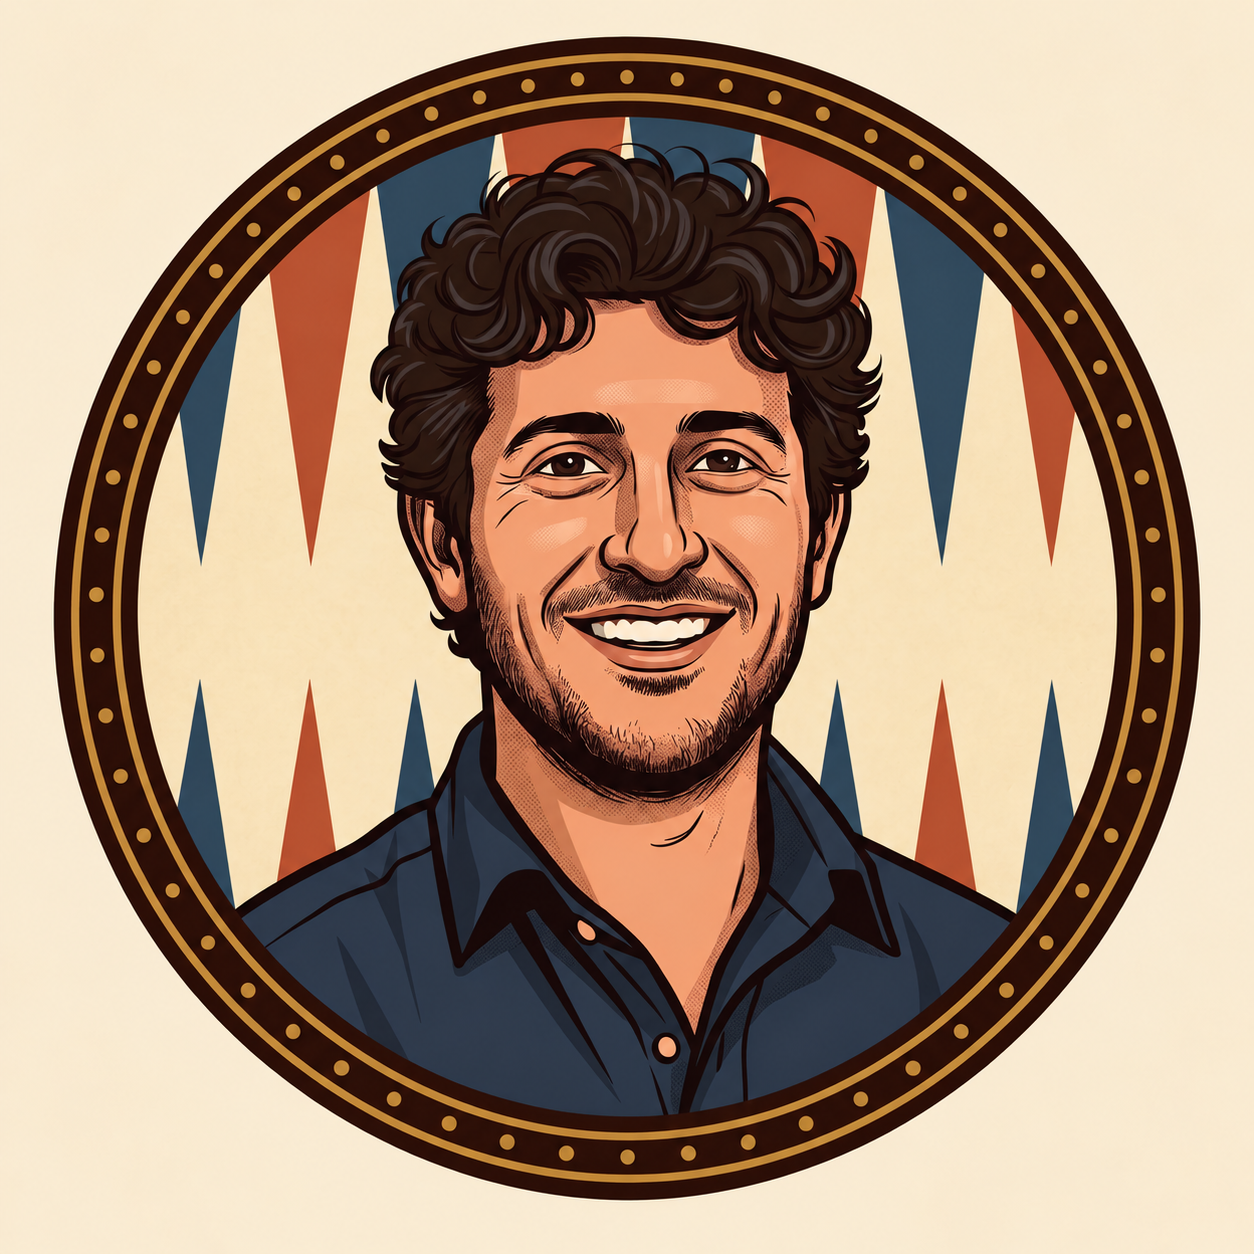
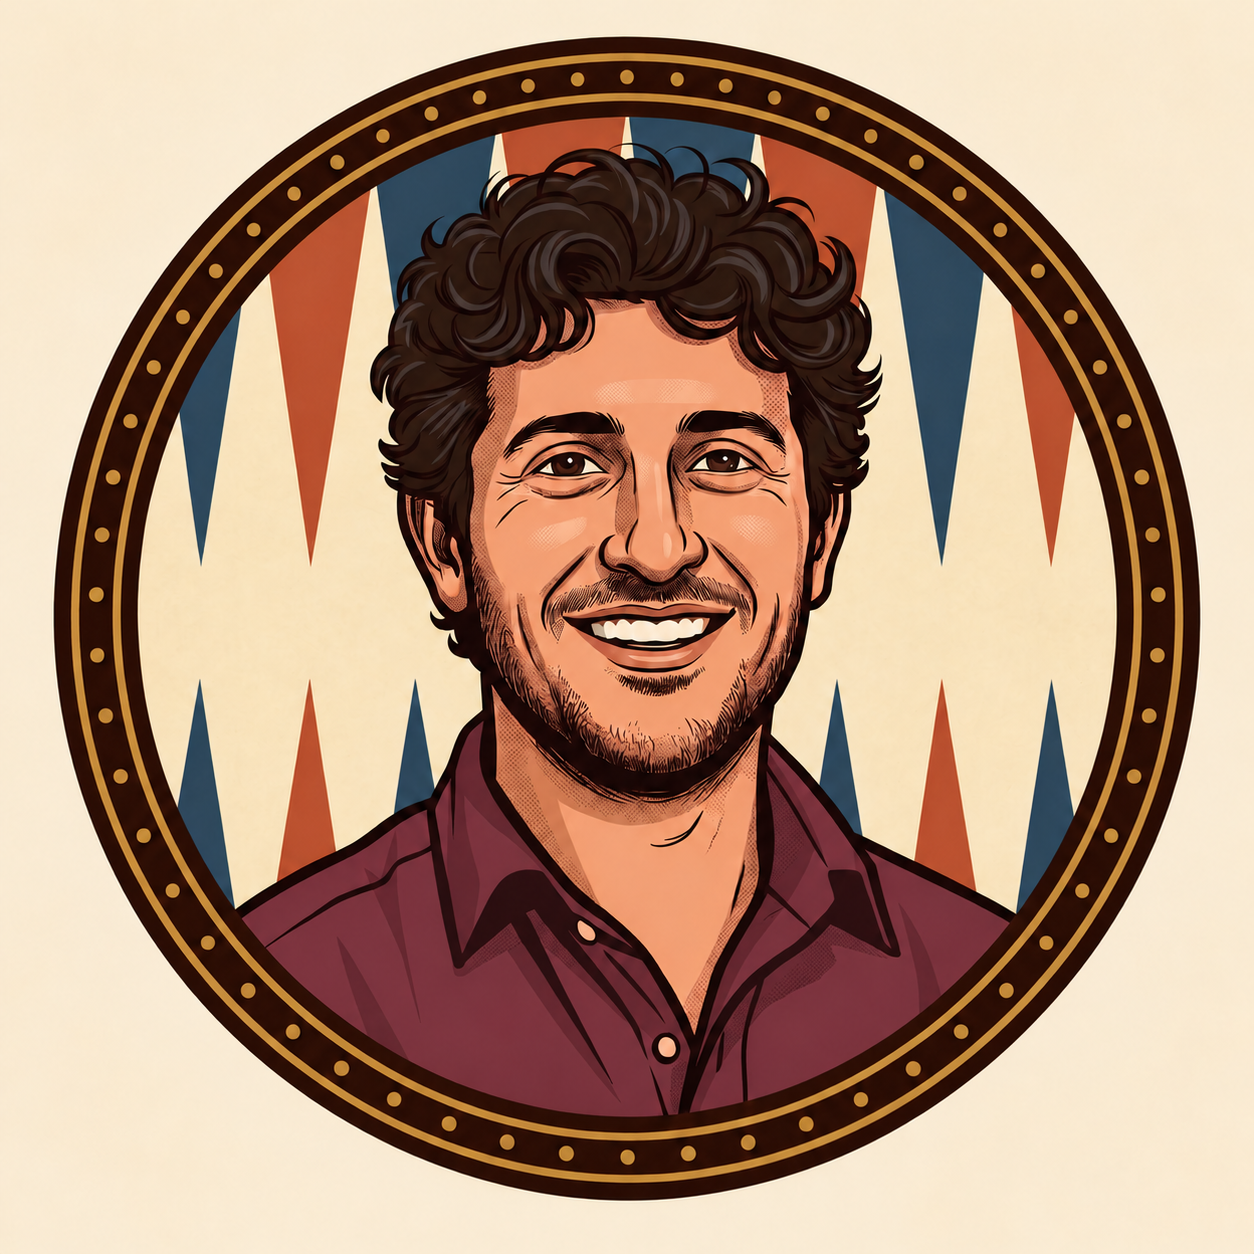
Distinguish Yona's badge with a burgundy shirt

diff --git a/association.html b/association.html
@@ -183,7 +183,7 @@
           <div class="grid grid-cols-2 sm:grid-cols-3 gap-x-5 gap-y-8 max-w-3xl mx-auto">
             <article class="text-center"><img src="assets/member-badges/greg.png" alt="" loading="lazy" width="80" height="80" class="w-20 h-20 rounded-full object-cover mx-auto border-2 border-brass/40"><h3 class="font-display font-bold text-base sm:text-lg mt-3">Greg Sacks</h3><p class="text-sm text-espresso-soft mt-1">Founding committee member</p></article>
             <article class="text-center"><img src="assets/member-badges/kobrin.png" alt="" loading="lazy" width="80" height="80" class="w-20 h-20 rounded-full object-cover mx-auto border-2 border-brass/40"><h3 class="font-display font-bold text-base sm:text-lg mt-3">Daniel Kobrin</h3><p class="text-sm text-espresso-soft mt-1">Founding committee member</p></article>
-            <article class="text-center col-span-2 sm:col-span-1"><img src="assets/member-badges/yona.png" alt="" loading="lazy" width="80" height="80" class="w-20 h-20 rounded-full object-cover mx-auto border-2 border-brass/40"><h3 class="font-display font-bold text-base sm:text-lg mt-3">Yona Takac</h3><p class="text-sm text-espresso-soft mt-1">Founding committee member</p></article>
+            <article class="text-center col-span-2 sm:col-span-1"><img src="assets/member-badges/yona.png?v=burgundy" alt="" loading="lazy" width="80" height="80" class="w-20 h-20 rounded-full object-cover mx-auto border-2 border-brass/40"><h3 class="font-display font-bold text-base sm:text-lg mt-3">Yona Takac</h3><p class="text-sm text-espresso-soft mt-1">Founding committee member</p></article>
           </div>
         </div>
       </section>

diff --git a/index.html b/index.html
@@ -489,7 +489,7 @@
             <figure class="member-card"><img src="assets/member-badges/bryce.png" alt="" loading="lazy" width="240" height="240"></figure>
             <figure class="member-card"><img src="assets/member-badges/greg.png" alt="" loading="lazy" width="240" height="240"></figure>
             <figure class="member-card"><img src="assets/member-badges/kobrin.png" alt="" loading="lazy" width="240" height="240"></figure>
-            <figure class="member-card"><img src="assets/member-badges/yona.png" alt="" loading="lazy" width="240" height="240"></figure>
+            <figure class="member-card"><img src="assets/member-badges/yona.png?v=burgundy" alt="" loading="lazy" width="240" height="240"></figure>
           </div>
           <button type="button" id="carouselNextBtn" aria-label="Next members" aria-controls="carouselTrack" class="w-11 h-11 rounded-full border border-parchment-border text-espresso flex items-center justify-center hover:bg-terracotta hover:text-white transition-colors"><i data-lucide="chevron-right" class="w-6 h-6" aria-hidden="true"></i></button>
         </div>
